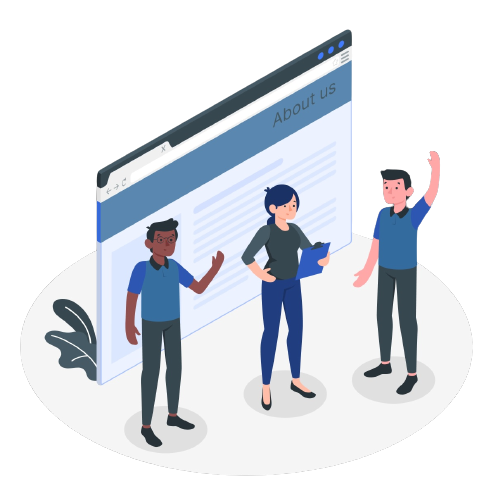
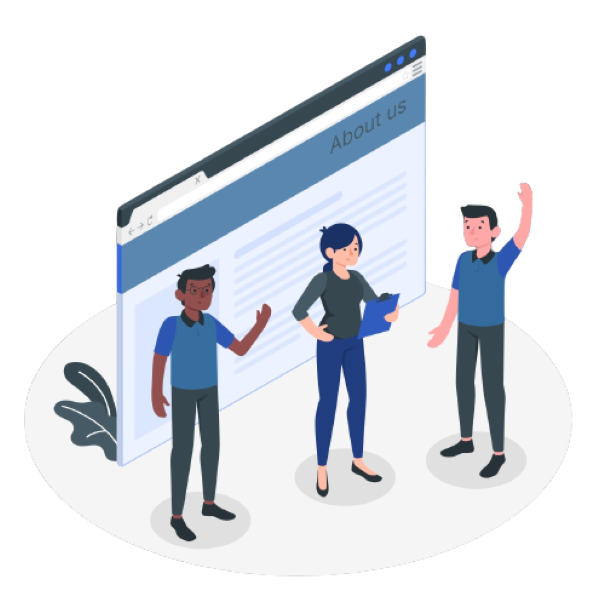
about_update

diff --git a/src/Components/Home.css b/src/Components/Home.css
@@ -28,38 +28,85 @@ body,html{
   display: flex;
   align-items: center; /* Vertically center align content */
   justify-content: space-between; /* Add space between the image and text */
-  padding: 20px; /* Add padding as needed */
+  padding: 10px; /* Add padding as needed */
 }
 
 .imag {
-  flex: 1; /* Take up available space */
+  flex: 3; /* Take up available space */
   background-image: url('../../public/about.png');
   background-size: cover;
   background-repeat: no-repeat;
   background-position: center;
-  height: 400px; /* Set an appropriate height for the image container */
+  height: 590px;
+  width: 609px; /* Set an appropriate height for the image container */
 }
 
 .text-container {
   flex: 2; /* Take up more space to accommodate text */
   padding: 20px; /* Add padding as needed */
 }
+.read-more-button {
+  background-color: #007bff; /* Blue color, you can customize this */
+  color: white;
+  /* padding: 10px 20px; */
+  border: none;
+  border-radius: 5px;
+  cursor: pointer;
+  width: 152px;
+  height: 54px;
+  flex-shrink: 0;
+  border-radius: 18px;
+  background: #5987B0;
+}
 .about{
-  padding-top: 80px;
-  padding-bottom: 80px;
+  padding-top: 60px;
+  padding-bottom: 20px;
 }
 .about-title{
-  font-size: 40px;
+  color: #000;
+  font-family: Merriweather;
+  font-size: 55.08px;
+  font-style: normal;
+  font-weight: 700;
+  line-height: normal;
+}
+.recent-title{
+  color: #000;
+  font-family: Merriweather;
+  font-size: 55.08px;
+  font-style: normal;
+  font-weight: 700;
+  line-height: normal;
+  padding-bottom: 60px;
 }
 .about_heading{
-    font-size: 28px;
-    padding: 50px;
-    padding-bottom: 10px;
+  color: #0F0F0F;
+  text-align: justify;
+  font-family: Poppins;
+  font-size: 33px;
+  font-style: normal;
+  font-weight: 600;
+  line-height: 1.5;
+    /* padding: 50px; */
+    /* padding-bottom: 10px; */
+    width: 582px;
+height: 225px;
 }
 .about_main{
-    font-size: 20px;
-    padding: 20px;
-    padding-top: 0px;
+  width: 594px;
+height: 335px;
+  color: #565656;
+  text-align: justify;
+  font-family: Poppins;
+  font-size: 23px;
+  font-style: normal;
+  font-weight: 600;
+  /* line-height: 1.5; */
+    /* padding: 20px;
+    padding-top: 0px; */
+    width: 594px;
+height: 305px;
+
 }
 .slider-slide {
   width: 50%;
@@ -69,7 +116,14 @@ body,html{
   justify-content: space-between; /* Add space between the image and text */
   padding-right: 20px; /* Add padding as needed */
 }
-
+.slider{
+  /* padding-top: 50px; */
+  width: 1100px;
+  border-radius: 97px;
+background: #FFF;
+/* box-sizing: border-box; */
+box-shadow: 0px 0px 14px 6px rgba(0, 0, 0, 0.19);
+}
 /* Style for the image container */
 .image-container {
   flex: 1; /* Allow image to take available space */
@@ -78,6 +132,7 @@ body,html{
 
 /* Style for the image */
 .slider-image {
+  padding-right: 40px;
   float: left;
   width: 300px; /* Ensure the image fits within its container */
   height: 300px; /* Maintain aspect ratio */
@@ -86,7 +141,8 @@ body,html{
 /* Style for the text container */
 .text-container {
   flex: 2; /* Allow text to take available space */
-  padding: 20px; /* Add spacing as needed */
+  padding: 20px;
+   /* Add spacing as needed */
 }
 /* Style the slider container */
 .slider-container {
@@ -96,8 +152,21 @@ body,html{
   height: 400px; /* Set a fixed or percentage-based height */
   overflow: hidden; /* Hide any content that overflows */
 }
+.slider-content{
+  padding-top: 40px;
+  color: #565656;
+text-align: justify;
+font-family: Poppins;
+font-size: 23px;
+font-style: normal;
+font-weight: 600;
+line-height: 1.5;
+}
 .recent-activities{
   padding-top: 50px;
+  padding-left: 100px;
 }
-
+.slider-text{
+  padding-top: 50px;
+}
 

diff --git a/src/Components/Home.js b/src/Components/Home.js
@@ -19,12 +19,15 @@ export default function Home() {
           <div className='about_main'>
             PPOC conducts enlightening discussions and workshop sessions among students’ community regarding various socio-economic and political issues of national and international interest. Apart from the regular sessions, we regularly publish blogs, newsletters, and research articles on these important contemporary issues. These activities earn a tremendously optimistic rejoinder from the student's group and conclude with great notions.
           </div>
+          <button className='read-more-button'>Read More</button>
         </div>
       </div>
       </div>
       <div className='recent-activities'>
-        <h1 className='about-title'>Recent Activities</h1>
+        <h1 className='recent-title'>Recent Activities</h1>
+        <div className='slider'>
       <ImageSlider/>
+      </div>
       </div>
     </>
   )

diff --git a/src/Components/recent.js b/src/Components/recent.js
@@ -34,12 +34,12 @@ const ImageSlider = () => {
       {sliderData.map((slide, index) => (
         <div key={index} className="slider-slide">
 
-            <p><img
+            <p className='slider-content'><img
               src={slide.image}
               alt={`Slide ${index + 1}`}
               className="slider-image"
             />
-            {slide.text}</p>
+            <div className='slider-text'>{slide.text}</div></p>
         </div>
       ))}
     </Slider>
